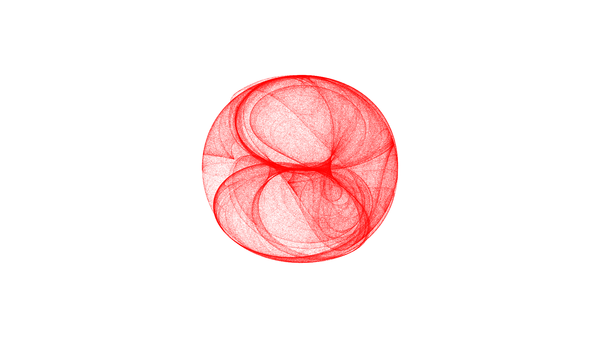
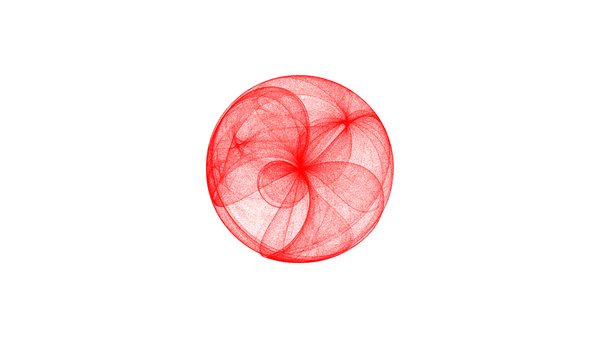
fix clifford

Changed region(s): [[0.33, 0.2071, 0.69, 0.7988]]

diff --git a/src/lib/plotters/clifford.ts b/src/lib/plotters/clifford.ts
@@ -3,9 +3,13 @@ import { Plotter } from "./plotter";
 export default class Clifford extends Plotter {
 
   // introduce chaos a little
-  a: number = -1.9 + (Math.random()/5) * (Math.random()<0.5?-1:1);
-  b: number = -1.9;
-  c: number = -1.9;
+  // a: number = -1.9 + (Math.random()/5) * (Math.random()<0.5?-1:1);
+  // b: number = -1.9;
+  // c: number = -1.9;
+  // d: number = -1; 
+  a: number = 2 + (Math.random()/5) * (Math.random()<0.5?-1:1);
+  b: number = -2;
+  c: number = 1;
   d: number = -1; 
 
   constructor(){
@@ -17,7 +21,7 @@ export default class Clifford extends Plotter {
 
   reset(){
     super.reset()
-    this.a = -1.9 + (Math.random()/5) * (Math.random()<0.5?-1:1);
+    // this.a = -1.9 + (Math.random()/5) * (Math.random()<0.5?-1:1);
   }
   
   calculate():[number, number]{
